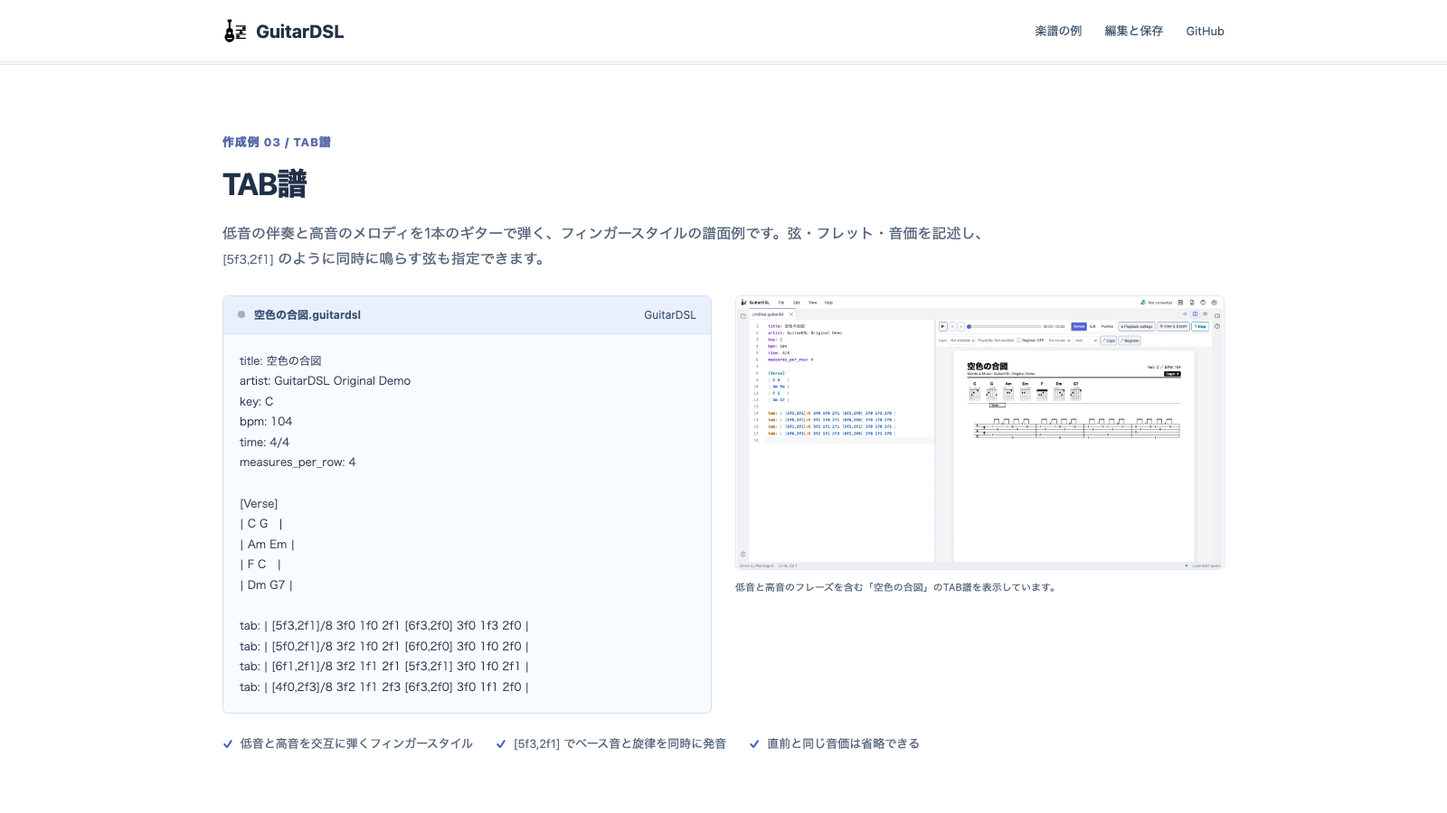
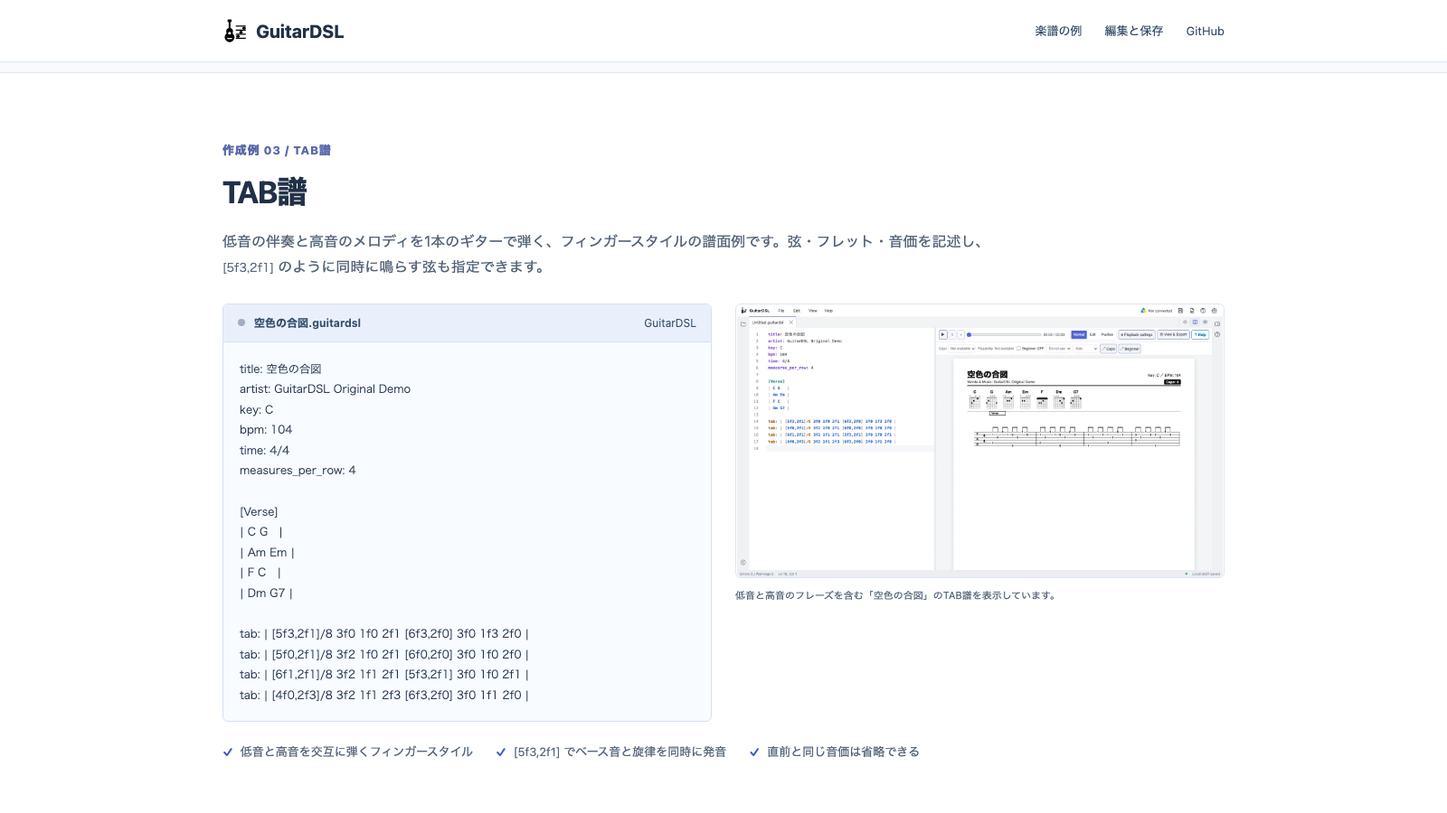
Fix TAB alignment and PR review findings

diff --git a/packages/core/src/render/tabStaff.ts b/packages/core/src/render/tabStaff.ts
@@ -87,7 +87,7 @@ export function renderTabStaff(
         ? undefined
         : beat.duration.parts.map(formatNoteValuePart).join('+');
       const part = normalizedPart ?? fallbackRhythmPart(beat.duration.parts);
-      const position: BeatPosition = { measureIndex: measure.measureIndex, localMeasure, beatIndex, globalIndex: globalIndex++, beat, offset: { ...offset }, x, measureEnd: bx + width - inset, part, durationLabel, stemX: x + maxFretMarkWidth(beat) / 2 + 2 };
+      const position: BeatPosition = { measureIndex: measure.measureIndex, localMeasure, beatIndex, globalIndex: globalIndex++, beat, offset: { ...offset }, x, measureEnd: bx + width - inset, part, durationLabel, stemX: x };
       offset = fadd(offset, beat.duration.beats);
       return position;
     });
@@ -114,9 +114,9 @@ export function renderTabStaff(
     for (const group of groups.values()) {
       if (group.length < 2) continue;
       group.forEach(entry => beamed.add(entry));
-      out += `<line class="tab-beam" x1="${fmt(group[0].stemX)}" y1="${fmt(top - 17)}" x2="${fmt(group[group.length - 1].stemX)}" y2="${fmt(top - 17)}" stroke="#000" stroke-width="2.6"/>`;
+      out += `<line class="tab-beam" data-measure-index="${measure.measureIndex}" data-first-beat="${group[0].beatIndex}" data-last-beat="${group[group.length - 1].beatIndex}" x1="${fmt(group[0].stemX)}" y1="${fmt(top - 17)}" x2="${fmt(group[group.length - 1].stemX)}" y2="${fmt(top - 17)}" stroke="#000" stroke-width="2.6"/>`;
       if (group.some(entry => entry.part.base >= 16)) {
-        out += `<line class="tab-beam-secondary" x1="${fmt(group[0].stemX)}" y1="${fmt(top - 13)}" x2="${fmt(group[group.length - 1].stemX)}" y2="${fmt(top - 13)}" stroke="#000" stroke-width="1.8"/>`;
+        out += `<line class="tab-beam-secondary" data-measure-index="${measure.measureIndex}" data-first-beat="${group[0].beatIndex}" data-last-beat="${group[group.length - 1].beatIndex}" x1="${fmt(group[0].stemX)}" y1="${fmt(top - 13)}" x2="${fmt(group[group.length - 1].stemX)}" y2="${fmt(top - 13)}" stroke="#000" stroke-width="1.8"/>`;
       }
     }
     for (const position of positions) {
@@ -125,10 +125,10 @@ export function renderTabStaff(
       const stemKind = position.part.base === 2 ? 'short' : 'full';
       if (position.part.base !== 1) {
         const markRight = position.x + maxFretMarkWidth(position.beat) / 2;
-        out += `<g class="tab-stem-${stemKind}"><line class="tab-stem" data-stem-kind="${stemKind}" x1="${fmt(position.stemX)}" data-mark-right="${fmt(markRight)}" y1="${fmt(top - 1)}" x2="${fmt(position.stemX)}" y2="${fmt(stemTop)}" stroke="#000" stroke-width="1.1"/></g>`;
+        out += `<g class="tab-stem-${stemKind}"><line class="tab-stem" data-stem-kind="${stemKind}" data-measure-index="${position.measureIndex}" data-beat-index="${position.beatIndex}" x1="${fmt(position.stemX)}" data-mark-right="${fmt(markRight)}" y1="${fmt(top - 1)}" x2="${fmt(position.stemX)}" y2="${fmt(stemTop)}" stroke="#000" stroke-width="1.1"/></g>`;
       }
       if (position.part.base >= 8 && !beamed.has(position)) {
-        out += renderFlags(position.part.base as NoteBase, position.stemX, top - 18);
+        out += `<g class="tab-rhythm-flag" data-measure-index="${position.measureIndex}" data-beat-index="${position.beatIndex}">${renderFlags(position.part.base as NoteBase, position.stemX, top - 18)}</g>`;
       }
       if (position.part.dotted) {
         const dotX = position.stemX + 2;
@@ -161,7 +161,7 @@ export function renderTabStaff(
       const label = note.dead ? 'x' : String(note.fret ?? 0);
       const labelWidth = estimateTextWidth(label, NUMBER_SIZE, true);
       out += `<rect class="tab-fret-mask" data-string="${note.string}" data-mark-width="${fmt(labelWidth)}" x="${fmt(position.x - (labelWidth + 3) / 2)}" y="${fmt(y - 1.8)}" width="${fmt(labelWidth + 3)}" height="3.6" fill="#fff"/>`;
-      out += `<text class="tab-fret" data-string="${note.string}"${visualBindingAttribute(bindingId)} x="${fmt(position.x)}" y="${fmt(y + 3.2)}" font-size="${NUMBER_SIZE}" font-weight="600" text-anchor="middle">${escapeXml(label)}</text>`;
+      out += `<text class="tab-fret" data-string="${note.string}" data-measure-index="${position.measureIndex}" data-beat-index="${position.beatIndex}"${visualBindingAttribute(bindingId)} x="${fmt(position.x)}" y="${fmt(y + 3.2)}" font-size="${NUMBER_SIZE}" font-weight="600" text-anchor="middle">${escapeXml(label)}</text>`;
       out += renderNoteEffects(note.effects, position, y, labelWidth);
     }
   }
@@ -183,13 +183,13 @@ function spreadCollisions(positions: BeatPosition[], min: number, max: number): 
     const beforeWidth = beatLabelWidth(before.beat);
     const currentWidth = beatLabelWidth(current.beat);
     current.x = Math.max(current.x, before.x + Math.max(9, (beforeWidth + currentWidth) / 2 + NUMBER_GAP));
-    current.stemX = current.x + maxFretMarkWidth(current.beat) / 2 + 2;
+    current.stemX = current.x;
   }
   if (positions.length === 0) return;
   const shift = Math.min(0, max - positions[positions.length - 1].x);
   positions.forEach(position => {
     position.x = Math.max(min, position.x + shift);
-    position.stemX = position.x + maxFretMarkWidth(position.beat) / 2 + 2;
+    position.stemX = position.x;
   });
 }
 

diff --git a/tests/unit/render-tab.test.ts b/tests/unit/render-tab.test.ts
@@ -23,6 +23,45 @@ function staffGroupConnectors(svg: string): string[] {
     .map(match => match[1]);
 }
 
+function svgAttributes(tag: string): Map<string, string> {
+  return new Map([...tag.matchAll(/([\w-]+)="([^"]*)"/gu)].map(match => [match[1], match[2]]));
+}
+
+function assertTabRhythmAnchors(svg: string): void {
+  const fretCenters = new Map<string, number[]>();
+  for (const match of svg.matchAll(/<text class="tab-fret"[^>]*>/gu)) {
+    const attrs = svgAttributes(match[0]);
+    const key = `${attrs.get('data-measure-index')}:${attrs.get('data-beat-index')}`;
+    const centers = fretCenters.get(key) ?? [];
+    centers.push(Number(attrs.get('x')));
+    fretCenters.set(key, centers);
+  }
+
+  const expectAnchor = (key: string, x: number, label: string): void => {
+    const centers = fretCenters.get(key);
+    assert.ok(centers?.length, `${label}: missing fret marks for beat ${key}`);
+    assert.ok(centers.every(center => Math.abs(center - centers[0]) < 0.01), `${label}: simultaneous frets are not centered at beat ${key}`);
+    assert.ok(Math.abs(x - centers[0]) < 0.01, `${label}: rhythm anchor is not centered at beat ${key}`);
+  };
+
+  for (const match of svg.matchAll(/<line class="tab-stem"[^>]*>/gu)) {
+    const attrs = svgAttributes(match[0]);
+    expectAnchor(`${attrs.get('data-measure-index')}:${attrs.get('data-beat-index')}`, Number(attrs.get('x1')), 'stem');
+  }
+  for (const match of svg.matchAll(/<g class="tab-rhythm-flag"([^>]*)>([\s\S]*?)<\/g><\/g>/gu)) {
+    const attrs = svgAttributes(match[1]);
+    const transform = match[2].match(/<g transform="translate\(([-\d.]+),/u);
+    assert.ok(transform, 'flag group has a translated rhythm anchor');
+    expectAnchor(`${attrs.get('data-measure-index')}:${attrs.get('data-beat-index')}`, Number(transform[1]), 'flag');
+  }
+  for (const match of svg.matchAll(/<line class="tab-beam(?:-secondary)?"[^>]*>/gu)) {
+    const attrs = svgAttributes(match[0]);
+    const measure = attrs.get('data-measure-index');
+    expectAnchor(`${measure}:${attrs.get('data-first-beat')}`, Number(attrs.get('x1')), 'beam start');
+    expectAnchor(`${measure}:${attrs.get('data-last-beat')}`, Number(attrs.get('x2')), 'beam end');
+  }
+}
+
 describe('TAB rendering and layout', () => {
   it('renders six string lines and authored fret values through the continuous SVG path', () => {
     const score = parseGuitarDsl('| C |\ntab: | [6f3,5f2,4f0,3f0,2f0,1f3]/1 |');
@@ -152,16 +191,16 @@ describe('TAB rendering and layout', () => {
     }
   });
 
-  it('draws line-break masks and places stems beyond measured multi-digit fret marks', () => {
-    const score = parseGuitarDsl('| C |\ntab: | 1f9/4 1f10/4 1f12/4 1f24/4 |');
+  it('draws line-break masks and centers stems on simultaneous multi-digit fret marks', () => {
+    const score = parseGuitarDsl('| C |\ntab: | [1f9,2f10]/4 [1f12,2f24]/4 1f12/4 1f24/4 |');
     const svg = renderContinuousSvg(score);
-    assert.strictEqual((svg.match(/class="tab-fret-mask"/g) ?? []).length, 4);
+    assert.strictEqual((svg.match(/class="tab-fret-mask"/g) ?? []).length, 6);
     assert.ok(!/class="tab-fret"[^>]*paint-order="stroke"/.test(svg));
     const marks = [...svg.matchAll(/<text class="tab-fret"[^>]*>(\d+)<\/text>/g)];
-    const stems = [...svg.matchAll(/<line class="tab-stem"[^>]*x1="([^"]+)"[^>]*data-mark-right="([^"]+)"/g)];
-    assert.deepStrictEqual(marks.map(match => match[1]), ['9', '10', '12', '24']);
+    const stems = [...svg.matchAll(/<line class="tab-stem"[^>]*>/g)];
+    assert.deepStrictEqual(marks.map(match => match[1]), ['9', '10', '12', '24', '12', '24']);
     assert.strictEqual(stems.length, 4);
-    assert.ok(stems.every(match => Number(match[1]) >= Number(match[2]) + 2));
+    assertTabRhythmAnchors(svg);
   });
 
   it('gives whole, half, quarter, eighth and sixteenth notes distinct rhythm marks', () => {
@@ -171,6 +210,7 @@ describe('TAB rendering and layout', () => {
     assert.strictEqual((svg.match(/class="tab-stem-full"/g) ?? []).length, 7);
     assert.strictEqual((svg.match(/class="tab-beam-secondary"/g) ?? []).length, 1);
     assert.strictEqual((svg.match(/class="tab-stem-short"/g) ?? []).length, 1, 'whole notes have no stem');
+    assertTabRhythmAnchors(svg);
   });
 
   it('keeps a dotted whole-note augmentation dot visible', () => {
@@ -193,7 +233,7 @@ describe('TAB rendering and layout', () => {
     const linked = renderContinuousSvg(parseGuitarDsl('| C |\ntab: | 3f10{hammer}~/2 3f10/2 |'));
     const sliding = renderContinuousSvg(parseGuitarDsl('| C |\ntab: | 3f10{slide}/2 3f12/2 |'));
     const marks = [...linked.matchAll(/<rect class="tab-fret-mask" data-string="3" data-mark-width="([\d.]+)"[^>]*width="[\d.]+"[^>]*\/>/g)];
-    const centers = [...linked.matchAll(/<text class="tab-fret" data-string="3" x="([\d.]+)"/g)].map(match => Number(match[1]));
+    const centers = [...linked.matchAll(/<text class="tab-fret" data-string="3"[^>]* x="([\d.]+)"/g)].map(match => Number(match[1]));
     assert.strictEqual(marks.length, 2);
     assert.strictEqual(centers.length, 2);
     const halfWidths = marks.map(match => Number(match[1]) / 2);

diff --git a/web/test/e2e/workspace.spec.ts b/web/test/e2e/workspace.spec.ts
@@ -314,6 +314,34 @@ test('keeps Japanese Welcome and Tutorial usable at a mobile viewport', async ({
   await expect(page.locator('.inspector')).toBeHidden();
 });
 
+test('Escape closes a mobile About dialog before the Tutorial drawer', async ({ page }) => {
+  await page.setViewportSize({ width: 390, height: 844 });
+  await page.goto('/');
+  await waitForWorkspaceReady(page);
+
+  await page.locator('#toggle-tutorial').click();
+  await expect(page.getByRole('heading', { name: 'Tutorial' })).toBeVisible();
+  const helpTrigger = page.locator('#menu-help-trigger');
+  await helpTrigger.click();
+  const helpMenu = page.locator('#help-menu');
+  await expect(helpMenu).toBeVisible();
+  await page.keyboard.press('End');
+  await expect(helpMenu.getByRole('menuitem', { name: 'About GuitarDSL' })).toBeFocused();
+  await page.keyboard.press('Enter');
+
+  const about = page.getByRole('dialog', { name: 'About GuitarDSL' });
+  await expect(about).toBeVisible();
+  await expect(page.getByRole('heading', { name: 'Tutorial' })).toBeVisible();
+  await page.keyboard.press('Escape');
+  await expect(about).toBeHidden();
+  await expect(page.getByRole('heading', { name: 'Tutorial' })).toBeVisible();
+  await expect(helpTrigger).toBeFocused();
+
+  await page.keyboard.press('Escape');
+  await expect(page.getByRole('heading', { name: 'Tutorial' })).toBeHidden();
+  await expect(page.locator('#toggle-tutorial')).toBeFocused();
+});
+
 test('Connect from Welcome stays on the page without opening Picker or listing score files', async ({ page }) => {
   const drive = await installDriveBrowserMock(page, ['account-a'], { appDataState: null });
   const scoreListQueries: string[] = [];

diff --git a/web/src/workspaceRuntime.ts b/web/src/workspaceRuntime.ts
@@ -5120,6 +5120,7 @@ app.querySelector<HTMLDialogElement>('#help-dialog')!.addEventListener('close', 
 document.addEventListener('keydown', event => {
   if (event.key !== 'Escape' || event.defaultPrevented || event.isComposing
     || workspace.clientWidth > 680 || !mobileDockOpen) return;
+  if (document.querySelector<HTMLDialogElement>('dialog[open]')) return;
   event.preventDefault();
   mobileDockOpen = false;
   applyWorkspaceLayout();

diff --git a/docs/status/implementation-status.md b/docs/status/implementation-status.md
@@ -8,20 +8,20 @@
 
 ## Issue #188: Web ようこそ・チュートリアル・Help・法的文書
 
[2 lines of base64/hex data omitted]
 - **実装**: IndexedDB の `web-welcome-v1` 設定を使う非文書Welcomeタブは、見出し・説明の下にフラットな2列を配置する。左列は枠なしの3アイコン操作と保存案内、右列はHelp、Terms、Licenses、Privacy、Source codeの順のnamed navigationで、狭いエディタ領域では保存案内の下・抑制checkboxの前に縦積みする。法的URLは現在のUI言語を維持し、Helpは既存 `help.open` を呼ぶ。10ステップTutorialはInspectorと切替可能な右Dockペインとして既存の楽譜／Inspectorを保持する。完了はステップ6/10のFinishでのみ保存し、Aを残してBを別ファイルに複製／作成する説明に直した。Clipboard用fixtureは意図した空行と小節群を保持する。モバイル右Dockの表示は一時状態で、Escape/reloadがデスクトップInspector設定を変更しない。Welcome経由のDrive接続も保留中のインポート／複製結果を世代ガード付きで照合する。A/Bレッスンfixtureと比較表は `docs/tutorials/` に置く。Helpメニューは旧8操作にGuitarDSL紹介を加えた9操作。MIT/第三者ライセンスと日英Privacy/Termsの静的9 URLは維持する。
-- **検証（2026-11-23）**: 最新のroot `npm test` はPASS（unit 130 PASS / 6 pending、Extension E2E、Web unit 84/84、Web E2E 274/274）。`npm run build:web`、`npm run check:help`、`npm run check:ai`、`npm run check:legal`（9ページ、74本番依存）、開発/本番 `build:marketing` と `check:marketing`、PR指摘に関するWelcome E2E、`npm run vscode:prepublish`、`npx @vscode/vsce ls`、`validate-docs --issue 188` はPASS。Tutorial例のE2Eはステップ遷移表示を待つ同期を追加し、単独再実行1/1 PASS後に全体テストを再実行した。`git diff --check`もPASS。
-- **未確認事項**: 原譜の書誌と公開条件は[広島大学図書館デジタルアーカイブ](https://dc.lib.hiroshima-u.ac.jp/da/en/4102)を参照し、譜面から16小節を比較表へ転記して5半音下への移調を記録した。B版の実音を聴いての原曲照合は実施していないため、**メロディの音楽的／聴取受入はBLOCKED**とし、聴取済みとは扱わない。実Google OAuth/Drive、実メール配信、本番デプロイ後の9 URL readback／Google審査、iOS/iPadOS Safari、支援技術はNOT RUN。Cloudflareの転送設定確認は配信テストではない。`build:web` では既存の大きな `workspaceRuntime` chunk（約1.13 MB）のVite警告が出るがbuildは成功。
-- **画面証拠**: Issue #188 §2.1.1.2 に従って更新した英語desktop/ChromiumのWelcome、日本語mobile/WebKitの上部・リンク一覧スクロール画像、Helpメニュー英日×Light/Dark×1600×900/1280×800の8枚、Tutorial画面を[evidence/issue-188/README.md](evidence/issue-188/README.md)に保存。TABの既知alignment defectは別Issue対応のため画像・rendererを変更せず、合格扱いもしない。
-- **文書オーナー**: docs/specs/web-app.md、docs/specs/gui_design.md、docs/design/web-app.md、docs/tutorials/、docs/legal/、docs/help/、media/help/、docs/status/implementation-status.md、本項の画面証拠。
+- **検証（2026-11-23）**: 最終root `npm test` はPASS（unit 1,138件、Extension E2E 131件PASS/6 pending、Web unit 84/84、Web E2E 276/276）。`npm run compile`、`npm run build:web`、Help/AI/legal sync（legal 9ページ・74本番依存）、開発/本番 `build:marketing` と `check:marketing`、TABアンカーunit、モバイルEscape E2E（Chromium/WebKit）、`npm run vscode:prepublish`、`npx @vscode/vsce ls`（1,661項目）、`validate-docs --issue 188`（7文書オーナー）、`verify-implementation-contract 188`、`git diff --check`はPASS。Web E2E単独の初回実行で一時失敗を検出したが、再実行276/276 PASS後のroot全体実行もPASS。
+- **未確認事項**: 原譜の書誌と公開条件は[広島大学図書館デジタルアーカイブ](https://dc.lib.hiroshima-u.ac.jp/da/en/4102)を参照し、譜面から16小節を比較表へ転記して5半音下への移調を記録した。B版の実音を聴いての原曲照合は実施していないため、**C010のメロディ聴取受入はBLOCKED**とし、聴取済みとは扱わない。レビュー指定に従い、**I006（実Google OAuth/Drive）とI016（デプロイ後の4-host readback）は未確認**。実メール配信、Google審査、iOS/iPadOS Safari、支援技術もNOT RUN。Cloudflareの転送設定確認は配信テストではない。`build:web` では既存の大きな `workspaceRuntime` chunk（約1.13 MB）のVite警告が出るがbuildは成功。
+- **画面証拠**: Issue #188 §2.1.1.2 に従って更新した英語desktop/ChromiumのWelcome、日本語mobile/WebKitの上部・リンク一覧スクロール画像、Helpメニュー英日×Light/Dark×1600×900/1280×800の8枚、Tutorial画面を[evidence/issue-188/README.md](evidence/issue-188/README.md)に保存。TAB実アプリ画像を撮り直し、拍の数字中心へリズム記号を揃えた。fixture・PNG・公開WebPのrevision-bound manifestと描画座標検査を開発/本番marketingゲートに追加した。
+- **文書オーナー**: docs/specs/extension.md、docs/specs/web-app.md、docs/specs/gui_design.md、docs/design/tab-notation.md、docs/design/web-app.md、docs/tutorials/、docs/legal/、docs/help/、media/help/、docs/status/implementation-status.md、本項の画面証拠。
 
 ### Product introduction / CI/CD 追加契約
 
[1 lines of base64/hex data omitted]
-- **実装**: `marketing/src/` にJavaScript不要の日英静的ページ、`marketing/examples/` にコンパイラー検証済み3譜例、`marketing/public/images/` にアプリ実画面から作成した4画像を追加。環境を明示して `marketing/dist/` を生成するビルダー、HTML・譜例・画像・Chromium/WebKit応答を確認する検証スクリプト、`www.guitardsl.app` / `wwwdev.guitardsl.app` 用の独立Worker設定を追加。Helpに現環境の紹介ページを安全な別タブで開く操作を追加。既存アプリWorkerと `wrangler.jsonc` は変更していない。PR検証はビルドのみで配信せず、main開発Previewとtag本番配信は各環境のアプリ・紹介サイト両方の検証後に順次公開する。
+- **状態**: 元の追加契約（comment 7072685483）に基づく紹介ページとCI/CDは既存PR #190に含まれる。契約追補（comment 7097507228）で追加したTAB描画・revision-bound視覚ゲート・モバイルEscapeを実装し、最新PR指摘を作業ツリーで解消した。変更のcommit/push後に新HEADのrequired checks、self-review、delivery-checkを再判定する。本番配信と4ホストの実応答確認は未実施。
+- **実装**: `marketing/src/` にJavaScript不要の日英静的ページ、`marketing/examples/` にコンパイラー検証済み3譜例、`marketing/public/images/` にアプリ実画面から作成した4画像を追加。TAB rhythm stems/flags/beamsは同拍フレット中心に揃え、`scripts/verify-marketing.mjs` はC fixture・実アプリPNG・公開WebPのSHA-256、rendered SVGのアンカー座標、`dist`内コピーを検証する。About/Help dialogが開いている間はmobile Tutorial drawerのEscapeを抑止せず、モバイルE2Eで2回のEscapeとfocus returnを確認する。環境を明示して`marketing/dist/`を生成する既存ビルダー、`www.guitardsl.app` / `wwwdev.guitardsl.app` 用Worker設定、Helpから別タブで紹介ページを開く操作を維持。既存アプリWorkerと`wrangler.jsonc`は変更せず、実デプロイは行わない。
 - **検証（2026-11-22）**: `npm ci`、開発/本番 `npm run build:web`、両targetの `build:marketing` / `check:marketing`、両環境URLを使ったHelp Chromium E2E、`npm run test:web`（unit 81/81、Chromium + WebKit E2E 264/264）、`npm run check:help`、`npm run check:legal`（9ページ、74本番依存）、`npm run check:ai`、`npm run compile`、`npm run vscode:prepublish`、`npx --yes @vscode/vsce ls`（1,661行）、`validate-docs --issue 188`（4文書オーナー）、`verify-implementation-contract 188`、現HEADの30項目self-review、およびPRのrequired checksはPASS。開発/本番成果物は8パスで一致し、2 HTMLの差は環境ホスト値のみ。不正なtargetは出力を変更せず拒否。`npm test` は既存Issue #158 の `E2E-PB05` で `assertTabInventoryRestored` のタブ一覧復元検査が1件失敗し、Web suiteへ進む前に終了した。Web suiteは別途PASS。`delivery-check 188 190` はself-review C006/C007のTAB画面不一致でBLOCKED。
-- **レビュー是正の検証（2026-11-23）**: `npm test`（unit 130 PASS / 6 pending、Extension E2E、Web unit 84/84、Web E2E 274/274）、`npm run build:web`、両targetのmarketing build/check、Help/AI/legal sync、Welcome E2E、`npm run vscode:prepublish`、`npx @vscode/vsce ls`、`validate-docs --issue 188`、Contract readbackはPASS。post-deploy readbackはコードとモックテストを追加したが、実デプロイと4-host live readbackは未実施。
-- **画面証拠と未解決の視覚指摘**: 4つの元PNGと日英×Chromium/WebKit×desktop/mobileの8ページ画像を [evidence](evidence/issue-188/README.md) に保存。TABは実アプリの未加工キャプチャを保持。数字とリズム記号の位置ずれはユーザー指示により本Issueではrendererを変更せず、合格扱いにもしていない。詳細は別対応。
+- **レビュー是正の検証（2026-11-23）**: `npm test`（unit 1,138、Extension E2E 131 PASS/6 pending、Web unit 84/84、Web E2E 276/276）、`npm run build:web`、両targetのmarketing build/check、Help/AI/legal sync、TABアンカーunit、モバイルEscape E2E、`npm run vscode:prepublish`、`npx @vscode/vsce ls`（1,661項目）、`validate-docs --issue 188`、Contract readbackはPASS。実デプロイと4-host live readbackは未実施。C010/I006/I016は契約どおり検証済み扱いにしていない。
+- **画面証拠**: 4つの元PNGと日英×Chromium/WebKit×desktop/mobileの8ページ画像、訂正後の実アプリTAB画像と視覚受入manifestを[evidence](evidence/issue-188/README.md)に保存。TABの拍位置、数字、stem/flag/beamを一致させ、実アプリPNGとfixture/WebPのhashおよびrendered SVG座標をmarketingゲートで検査する。
 - **配信ゲート**: Cloudflareの読み取りでzoneがactive、`Always Use HTTPS=on`、SSL mode `Full` を確認。4ホストのDNS/Worker設定は未配信で、現在のcustom domainはアプリapexのみ。デプロイ、HTTP転送、証明書、および4ホストの本番readbackは未実施。契約に従い配信済みとは主張しない。
 
 ## Issue #186: Google Drive の不要な競合ダイアログ

diff --git a/docs/status/evidence/issue-188/README.md b/docs/status/evidence/issue-188/README.md
@@ -18,7 +18,7 @@ The first-run Welcome and the right-dock Tutorial captures are 1600×950 Chromiu
 
 ### Welcome link list restored after PR review — 2026-11-23
 
-The English desktop and Japanese mobile Welcome captures were refreshed from the local app after restoring the five-item right-side Links list required by Issue #188 §2.1.1.2. The English capture uses Chromium at 1600×950 CSS pixels. The two Japanese mobile captures use WebKit at 390×844 CSS pixels (780×1688 device pixels): the first shows the page top, and the scrolled view shows the Links list and suppression checkbox. The desktop view shows both unboxed columns; mobile stacks Links after Start and Storage. Both layouts stay within the viewport. The marketing score image and TAB renderer were not changed.
+The English desktop and Japanese mobile Welcome captures were refreshed from the local app after restoring the five-item right-side Links list required by Issue #188 §2.1.1.2. The English capture uses Chromium at 1600×950 CSS pixels. The two Japanese mobile captures use WebKit at 390×844 CSS pixels (780×1688 device pixels): the first shows the page top, and the scrolled view shows the Links list and suppression checkbox. The desktop view shows both unboxed columns; mobile stacks Links after Start and Storage. Both layouts stay within the viewport. The TAB renderer and score image were refreshed separately below after the review follow-up.
 
 - [Updated Welcome, English desktop / Chromium](welcome-en-chromium.png)
 - [Updated Welcome, Japanese mobile / WebKit](welcome-ja-mobile.png)
@@ -26,7 +26,7 @@ The English desktop and Japanese mobile Welcome captures were refreshed from the
 
 ## Product introduction score captures
 
-The four original PNG captures below were taken from the real GuitarDSL Web app served by local Vite at `127.0.0.1:4179`, using Playwright 1.65.0 Chromium at 1600×900 CSS pixels, device scale factor 1, English UI, and the light color scheme. Each clean browser context loaded its named fixture into the editor; the compiler reported zero errors and warnings, and the capture run made no external requests. The rendering source revision was `25cd861264888582d1fc575118e413b004dede71`; the worktree changes used for this capture only affect the Help link and product-introduction pages, not the score compiler or renderer.
+The four PNG captures below are from the real GuitarDSL Web app served by local Vite at `127.0.0.1:4179`, using Playwright 1.65.0 Chromium at 1600×900 CSS pixels, device scale factor 1, English UI, and the light color scheme. Each clean browser context loaded its named fixture into the editor; the compiler reported zero errors and warnings, and the capture run made no external requests. The A/B captures retain their original renderer provenance (`25cd861264888582d1fc575118e413b004dede71`). The C capture was regenerated on 2026-11-23 from the working tree after correcting beat-anchor placement in `packages/core/src/render/tabStaff.ts`.
 
 | Marketing asset | Fixture | App view | Original PNG |
 |---|---|---|---|
@@ -35,11 +35,22 @@ The four original PNG captures below were taken from the real GuitarDSL Web app 
 | `melody-lyrics.webp` | `B_melody_lyrics.guitardsl` | Source and rendered score | [PNG](marketing-melody-lyrics-1600x900.png) |
 | `solo-guitar-tab.webp` | `C_guitar_tab.guitardsl` | Source and rendered score | [PNG](marketing-solo-guitar-tab-1600x900.png) |
 
-The WebP assets in `marketing/public/images/` were encoded from these PNGs with `cwebp 1.6.0 -q 82 -m 6`. A visual review found a rhythm-mark/fret-number alignment discrepancy in the TAB rendering. Per the user's direction, the renderer and these genuine captures were not altered in this issue; treat that visual alignment as separate follow-up work, not as verified acceptance.
+The WebP assets in `marketing/public/images/` were encoded from these PNGs with `cwebp 1.6.0 -q 82 -m 6`.
+
+### TAB visual acceptance gate — 2026-11-23
+
+The rhythm stem, flag, and beam anchors now share each beat's fret-number center. Collision spreading moves the fret marks and all rhythm anchors together; wider fret numbers affect beat spacing without shifting their own anchors. Unit coverage includes simultaneous and multi-digit frets, flags, and beams.
+
+The new real-app capture and published WebP are bound to the exact C fixture revision in [`tab-visual-acceptance.json`](tab-visual-acceptance.json). `npm run check:marketing -- --target development|production` verifies all three SHA-256 values, verifies the copied WebP bytes in `marketing/dist`, and renders fixture C to assert stem, flag, and beam coordinates against the fret centers. A stale fixture or image fails the same check used before both deployments. The manifest records Codex's visual review and capture provenance; it does not claim a separate product-owner approval.
+
+Capture recipe: start `npm run dev --workspace web -- --port 4179 --strictPort`, then run `node --import tsx scripts/capture-issue-188-tab.mjs`. The script loads the fixture in a clean Chromium context, selects Source + Score split, hides Explorer/Inspector/Problems, and captures the actual app. WebP command: `cwebp -q 82 -m 6 docs/status/evidence/issue-188/marketing-solo-guitar-tab-1600x900.png -o marketing/public/images/solo-guitar-tab.webp`.
+
+- [Corrected TAB: real app capture, 1600×900](marketing-solo-guitar-tab-1600x900.png)
+- [Revision-bound visual acceptance manifest](tab-visual-acceptance.json)
 
 ## Product introduction page screenshots
 
-`npm run check:marketing -- --target development|production` captures the generated Japanese and English pages in Chromium and WebKit with JavaScript disabled, a dark OS preference, and both required viewports. The committed snapshots are in [marketing-site/](marketing-site/): 1600×900 and 390×844 CSS pixels for each browser and locale. The screenshots are evidence of layout only; the automated checks separately assert links, image loading and dimensions, no horizontal page overflow, and HTTP 404 for an unknown route.
+`npm run check:marketing -- --target development|production` captures the generated Japanese and English pages in Chromium and WebKit with JavaScript disabled, a dark OS preference, and both required viewports. The committed snapshots are in [the marketing-site screenshots](marketing-site/marketing-site-chromium-ja-1600x900.png): 1600×900 and 390×844 CSS pixels for each browser and locale. The screenshots are evidence of layout only; the automated checks separately assert links, image loading and dimensions, no horizontal page overflow, and HTTP 404 for an unknown route.
 
 ### Japanese copy and section-label review — 2026-11-23
 

diff --git a/docs/help/en/features.md b/docs/help/en/features.md
@@ -37,7 +37,7 @@ The Inspector is a shared place for document-aware assistance as features move i
 
 On first launch, **Welcome** is an auxiliary tab before score tabs. It describes writing chord progressions, strumming, lyrics, melody, and TAB as text and viewing them as a score. Its unboxed left column offers **Create New Score**, **Connect and Use Google Drive**, and **Start Tutorial**, followed by the local-first storage note. The **Links** list on the right contains **Help**, **Terms of Service**, **Licenses (MIT/OSS)**, **Privacy Policy**, and **Source code (GitHub)** in that order. Help opens the existing Help flow; legal pages use the current UI language. On a narrow editor pane, Links stacks after Start and Storage. Scores and drafts stay on this device unless you choose Drive. Its checkbox suppresses Welcome on future startups after the setting is saved. Welcome does not import files or open Drive Picker. After connecting Drive, the app checks unfinished import or duplicate results and does not repeat an unconfirmed copy. When offline it reports that Drive is unavailable while local scores remain available.
 
-The header has **File**, **Edit**, **View**, and **Help** menus. Help contains Welcome, Tutorial, Product introduction, Help, Source code, Licenses, Privacy, Terms, and About. Product introduction opens a separate site with examples of the three score types; app version details remain in About. Choosing Tutorial in Help or Welcome opens the same right-side pane. On a narrow screen, the pane opens as a temporary drawer; Escape closes it, its open state is not saved, and reload does not reopen it. Dismissing the drawer does not change the saved desktop Inspector setting. Switch between the outer **Inspector** and **Tutorial** tabs; existing Inspector tabs remain available when you switch back. Tutorial has ten steps for chord-only and melody versions of 紅葉, and progress is saved in this browser. Only Finish on step 6 completes lesson A, and only Finish on step 10 completes lesson B. Make B by duplicating A or creating a new file and copying its source; keep A unchanged. Examples can be copied, but the tutorial never creates or changes a score for you. The **About GuitarDSL** dialog shows the app version, MIT license, source code, and support contact.
+The header has **File**, **Edit**, **View**, and **Help** menus. Help contains Welcome, Tutorial, Product introduction, Help, Source code, Licenses, Privacy, Terms, and About. Product introduction opens a separate site with examples of the three score types; app version details remain in About. Choosing Tutorial in Help or Welcome opens the same right-side pane. On a narrow screen, the pane opens as a temporary drawer. If an About or Help dialog is open over it, Escape closes the dialog first and restores focus to its invoker; a second Escape closes the drawer and restores focus to the Tutorial button. Drawer state is not saved, reload does not reopen it, and dismissing it does not change the saved desktop Inspector setting. Switch between the outer **Inspector** and **Tutorial** tabs; existing Inspector tabs remain available when you switch back. Tutorial has ten steps for chord-only and melody versions of 紅葉, and progress is saved in this browser. Only Finish on step 6 completes lesson A, and only Finish on step 10 completes lesson B. Make B by duplicating A or creating a new file and copying its source; keep A unchanged. Examples can be copied, but the tutorial never creates or changes a score for you. The **About GuitarDSL** dialog shows the app version, MIT license, source code, and support contact.
 
 Its supported targets are desktop Chromium and Safari on macOS; Safari on iPhone and iPad is outside this target.
 
@@ -106,7 +106,7 @@ At 600 px wide, the transport, Practice, both disclosure buttons, and Help remai
 
 Measures wrap onto rows automatically (4 per row by default, set with `measures_per_row`). Pages break automatically when a row does not fit, and at every manual `pagebreak` / `---` line. Page 1 shows the full header with chord diagrams. Later pages show a compact running header.
 
-Rows with `tab:` or `tab[1]:` show a conventional six-string TAB staff below any melody and melody lyrics, with a stacked `T` / `A` / `B` clef, broken string lines behind centered fret numbers, and rhythm marks above the staff. TAB carries its own rhythm, so an implicit slash-rhythm staff is omitted; explicitly authored rhythm is shown when `show_rhythm: true`. TAB and PDF use the same page SVG rendering path.
+Rows with `tab:` or `tab[1]:` show a conventional six-string TAB staff below any melody and melody lyrics, with a stacked `T` / `A` / `B` clef, broken string lines behind centered fret numbers, and rhythm marks above the staff whose beat anchors align with the fret-number centers. TAB carries its own rhythm, so an implicit slash-rhythm staff is omitted; explicitly authored rhythm is shown when `show_rhythm: true`. TAB and PDF use the same page SVG rendering path.
 
 Treat mel: as vocal and TAB plus visible rhythm as guitar staves. A group with vocal uses an outer bracket; TAB with rhythm and no vocal uses a guitar brace. In a three-staff system the bracket spans all staves while the brace joins only TAB and rhythm. Lyrics attached to TAB do not create a vocal staff. Barlines connect only the gaps, and a hidden implicit rhythm staff under TAB is not counted.
 

diff --git a/media/help/guitardsl-help.en.md b/media/help/guitardsl-help.en.md
@@ -79,7 +79,7 @@ The Inspector is a shared place for document-aware assistance as features move i
 
 On first launch, **Welcome** is an auxiliary tab before score tabs. It describes writing chord progressions, strumming, lyrics, melody, and TAB as text and viewing them as a score. Its unboxed left column offers **Create New Score**, **Connect and Use Google Drive**, and **Start Tutorial**, followed by the local-first storage note. The **Links** list on the right contains **Help**, **Terms of Service**, **Licenses (MIT/OSS)**, **Privacy Policy**, and **Source code (GitHub)** in that order. Help opens the existing Help flow; legal pages use the current UI language. On a narrow editor pane, Links stacks after Start and Storage. Scores and drafts stay on this device unless you choose Drive. Its checkbox suppresses Welcome on future startups after the setting is saved. Welcome does not import files or open Drive Picker. After connecting Drive, the app checks unfinished import or duplicate results and does not repeat an unconfirmed copy. When offline it reports that Drive is unavailable while local scores remain available.
 
-The header has **File**, **Edit**, **View**, and **Help** menus. Help contains Welcome, Tutorial, Product introduction, Help, Source code, Licenses, Privacy, Terms, and About. Product introduction opens a separate site with examples of the three score types; app version details remain in About. Choosing Tutorial in Help or Welcome opens the same right-side pane. On a narrow screen, the pane opens as a temporary drawer; Escape closes it, its open state is not saved, and reload does not reopen it. Dismissing the drawer does not change the saved desktop Inspector setting. Switch between the outer **Inspector** and **Tutorial** tabs; existing Inspector tabs remain available when you switch back. Tutorial has ten steps for chord-only and melody versions of 紅葉, and progress is saved in this browser. Only Finish on step 6 completes lesson A, and only Finish on step 10 completes lesson B. Make B by duplicating A or creating a new file and copying its source; keep A unchanged. Examples can be copied, but the tutorial never creates or changes a score for you. The **About GuitarDSL** dialog shows the app version, MIT license, source code, and support contact.
+The header has **File**, **Edit**, **View**, and **Help** menus. Help contains Welcome, Tutorial, Product introduction, Help, Source code, Licenses, Privacy, Terms, and About. Product introduction opens a separate site with examples of the three score types; app version details remain in About. Choosing Tutorial in Help or Welcome opens the same right-side pane. On a narrow screen, the pane opens as a temporary drawer. If an About or Help dialog is open over it, Escape closes the dialog first and restores focus to its invoker; a second Escape closes the drawer and restores focus to the Tutorial button. Drawer state is not saved, reload does not reopen it, and dismissing it does not change the saved desktop Inspector setting. Switch between the outer **Inspector** and **Tutorial** tabs; existing Inspector tabs remain available when you switch back. Tutorial has ten steps for chord-only and melody versions of 紅葉, and progress is saved in this browser. Only Finish on step 6 completes lesson A, and only Finish on step 10 completes lesson B. Make B by duplicating A or creating a new file and copying its source; keep A unchanged. Examples can be copied, but the tutorial never creates or changes a score for you. The **About GuitarDSL** dialog shows the app version, MIT license, source code, and support contact.
 
 Its supported targets are desktop Chromium and Safari on macOS; Safari on iPhone and iPad is outside this target.
 
@@ -144,7 +144,7 @@ At 600 px wide, the transport, Practice, both disclosure buttons, and Help remai
 
 Measures wrap onto rows automatically (4 per row by default, set with `measures_per_row`). Pages break automatically when a row does not fit, and at every manual `pagebreak` / `---` line. Page 1 shows the full header with chord diagrams. Later pages show a compact running header.
 
-Rows with `tab:` or `tab[1]:` show a conventional six-string TAB staff below any melody and melody lyrics, with a stacked `T` / `A` / `B` clef, broken string lines behind centered fret numbers, and rhythm marks above the staff. TAB carries its own rhythm, so an implicit slash-rhythm staff is omitted; explicitly authored rhythm is shown when `show_rhythm: true`. TAB and PDF use the same page SVG rendering path.
+Rows with `tab:` or `tab[1]:` show a conventional six-string TAB staff below any melody and melody lyrics, with a stacked `T` / `A` / `B` clef, broken string lines behind centered fret numbers, and rhythm marks above the staff whose beat anchors align with the fret-number centers. TAB carries its own rhythm, so an implicit slash-rhythm staff is omitted; explicitly authored rhythm is shown when `show_rhythm: true`. TAB and PDF use the same page SVG rendering path.
 
 Treat mel: as vocal and TAB plus visible rhythm as guitar staves. A group with vocal uses an outer bracket; TAB with rhythm and no vocal uses a guitar brace. In a three-staff system the bracket spans all staves while the brace joins only TAB and rhythm. Lyrics attached to TAB do not create a vocal staff. Barlines connect only the gaps, and a hidden implicit rhythm staff under TAB is not counted.
 

diff --git a/docs/design/web-app.md b/docs/design/web-app.md
@@ -210,7 +210,7 @@ For Issue #178, `web/src/components/Snackbar.vue` owns transient notice presenta
 
 ### Welcome, right dock, and legal page ownership
 
-`workspaceRuntime.ts` remains the sole owner of Welcome open/active state, the `settings:web-welcome-v1` startup suppression value, right-dock selection, tutorial step and completion state, and their IndexedDB persistence. The score editor and Preview keep their existing stable hosts while Welcome is active. Welcome renders a flat two-column content area: the left column contains three unboxed command rows and the storage note; the right column is a named five-item Links navigation list. The Help item emits the existing typed `help.open` command. Legal anchors use the canonical production URL for the current UI locale, and external anchors retain `noopener noreferrer`. A container query stacks Links after Start and Storage at narrow editor-pane widths, before the shared suppression footer. The surface has no About feature narrative, cards, or center divider. Inspector and Tutorial are outer panes in the existing `InspectorHost.vue`; switching only changes visibility and continues to mount the controller-owned Inspector tabs, content, and settings hosts. The narrow-screen drawer visibility is runtime-only and excluded from the saved layout; Escape dismisses it without changing desktop Inspector visibility. Only Finish on tutorial step 6 or 10 records the corresponding lesson completion. `web/src/components/WelcomePage.vue` and `TutorialPanel.vue` render immutable snapshots and emit typed commands.
+`workspaceRuntime.ts` remains the sole owner of Welcome open/active state, the `settings:web-welcome-v1` startup suppression value, right-dock selection, tutorial step and completion state, and their IndexedDB persistence. The score editor and Preview keep their existing stable hosts while Welcome is active. Welcome renders a flat two-column content area: the left column contains three unboxed command rows and the storage note; the right column is a named five-item Links navigation list. The Help item emits the existing typed `help.open` command. Legal anchors use the canonical production URL for the current UI locale, and external anchors retain `noopener noreferrer`. A container query stacks Links after Start and Storage at narrow editor-pane widths, before the shared suppression footer. The surface has no About feature narrative, cards, or center divider. Inspector and Tutorial are outer panes in the existing `InspectorHost.vue`; switching only changes visibility and continues to mount the controller-owned Inspector tabs, content, and settings hosts. The narrow-screen drawer visibility is runtime-only and excluded from the saved layout; its Escape handler yields to any open modal dialog so the dialog closes and restores focus first. With no modal open, Escape dismisses the drawer without changing desktop Inspector visibility and restores focus to its toggle. Only Finish on tutorial step 6 or 10 records the corresponding lesson completion. `web/src/components/WelcomePage.vue` and `TutorialPanel.vue` render immutable snapshots and emit typed commands.
 
 The three legal document sources are authored as static content and emitted to nine physical HTML documents: English substantive base entries and explicit Japanese and English locale destinations. `web/public/` owns the published files; Vite does not route these paths through the SPA. Base entries only redirect after a single browser-language read when JavaScript is enabled; explicit locale pages contain no detection script. Their generated nav URLs are same-origin and resolve to the same document type in the other locale. No external fonts, scripts, analytics, or cookies are required.
 

diff --git a/docs/specs/web-app.md b/docs/specs/web-app.md
@@ -62,6 +62,7 @@ The numbered sections below define the Web application's normative behavior. The
 - On startup, after restoring the existing local session, activate Welcome unless `suppressOnStartup` is true. Do not add fake score tabs, placeholder or empty recent-file lists, import/picker actions on Welcome, a new history store, or Drive requests triggered by Welcome. Keep all Welcome content reachable by scrolling without horizontal overflow at narrow widths.
 - Tutorial is a second outer right-dock pane beside Inspector and shares its width and splitter. Keep all existing Inspector controller DOM hosts mounted using visibility switching. The runtime owns `rightDockPane`, `tutorialStepIndex` (0–9), and the A/B completion flags. Persist selected pane in `settings:web-layout-v1.rightDockPane`, defaulting invalid or missing values to Inspector. A mobile right-dock overlay is transient: do not persist its open state, do not reopen it after a narrow-viewport reload, and let Escape dismiss it without changing the saved desktop Inspector open state. Persist lesson progress in `settings:web-tutorial-v1` as version 1 with the step and two completion flags. Tutorial open/resume does not create, copy, navigate, or edit a score, connect Drive, or cause external network access. Copying a code example only copies it to the clipboard and preserves the fixture's line groups and blank lines. Next and Previous only navigate; only Finish on step 6 marks the melody-free A lesson complete, and only Finish on step 10 marks B complete. Restart clears progress and completion flags without changing user documents.
 - The Help menu’s About GuitarDSL dialog displays “GuitarDSL Web”, the build-injected `web/package.json` version, MIT License, and source link. The Web package version is the sole version source.
+- On a mobile viewport, Escape first belongs to the topmost open modal dialog, including About or Help. It MUST close that dialog using its cancel behavior and restore focus to the dialog invoker while leaving the Tutorial drawer open. Only a later Escape with no modal dialog open closes the drawer and restores focus to its Tutorial toggle.
 - Transient workspace notifications, including successful local score creation, MUST appear as non-blocking snackbars outside document flow, with no action buttons. Informational notices MUST dismiss automatically after 4 seconds and errors after 8 seconds. A newer notice replaces the current notice and restarts its timer. Notice text remains available through a polite status or assertive alert role according to severity. All notices MUST render through a reusable `Snackbar` component, which owns presentation, accessibility semantics, and its per-kind dismissal timer; the workspace runtime owns message content and severity and receives a typed dismissal command when the timer expires.
 - All four workspace splitters support pointer dragging and cancellation, resetting only their own size on double-click, and keyboard resizing through a focused `separator`. The Source/Score splitter MUST update both rendered pane widths while dragging and persist the resulting center ratio. Each splitter exposes orientation, min/max/current values and a visible focus ring. Clamping MUST prevent negative sizes, non-finite geometry, and horizontal overflow.
 - Workspace display mode, desktop panel open state, widths, heights, and center split ratio MUST be persisted and restored. Invalid saved preferences fall back to defaults. Temporary width-driven collapsing and the mobile right-dock overlay MUST NOT replace the user's saved desktop Inspector open/closed state.
